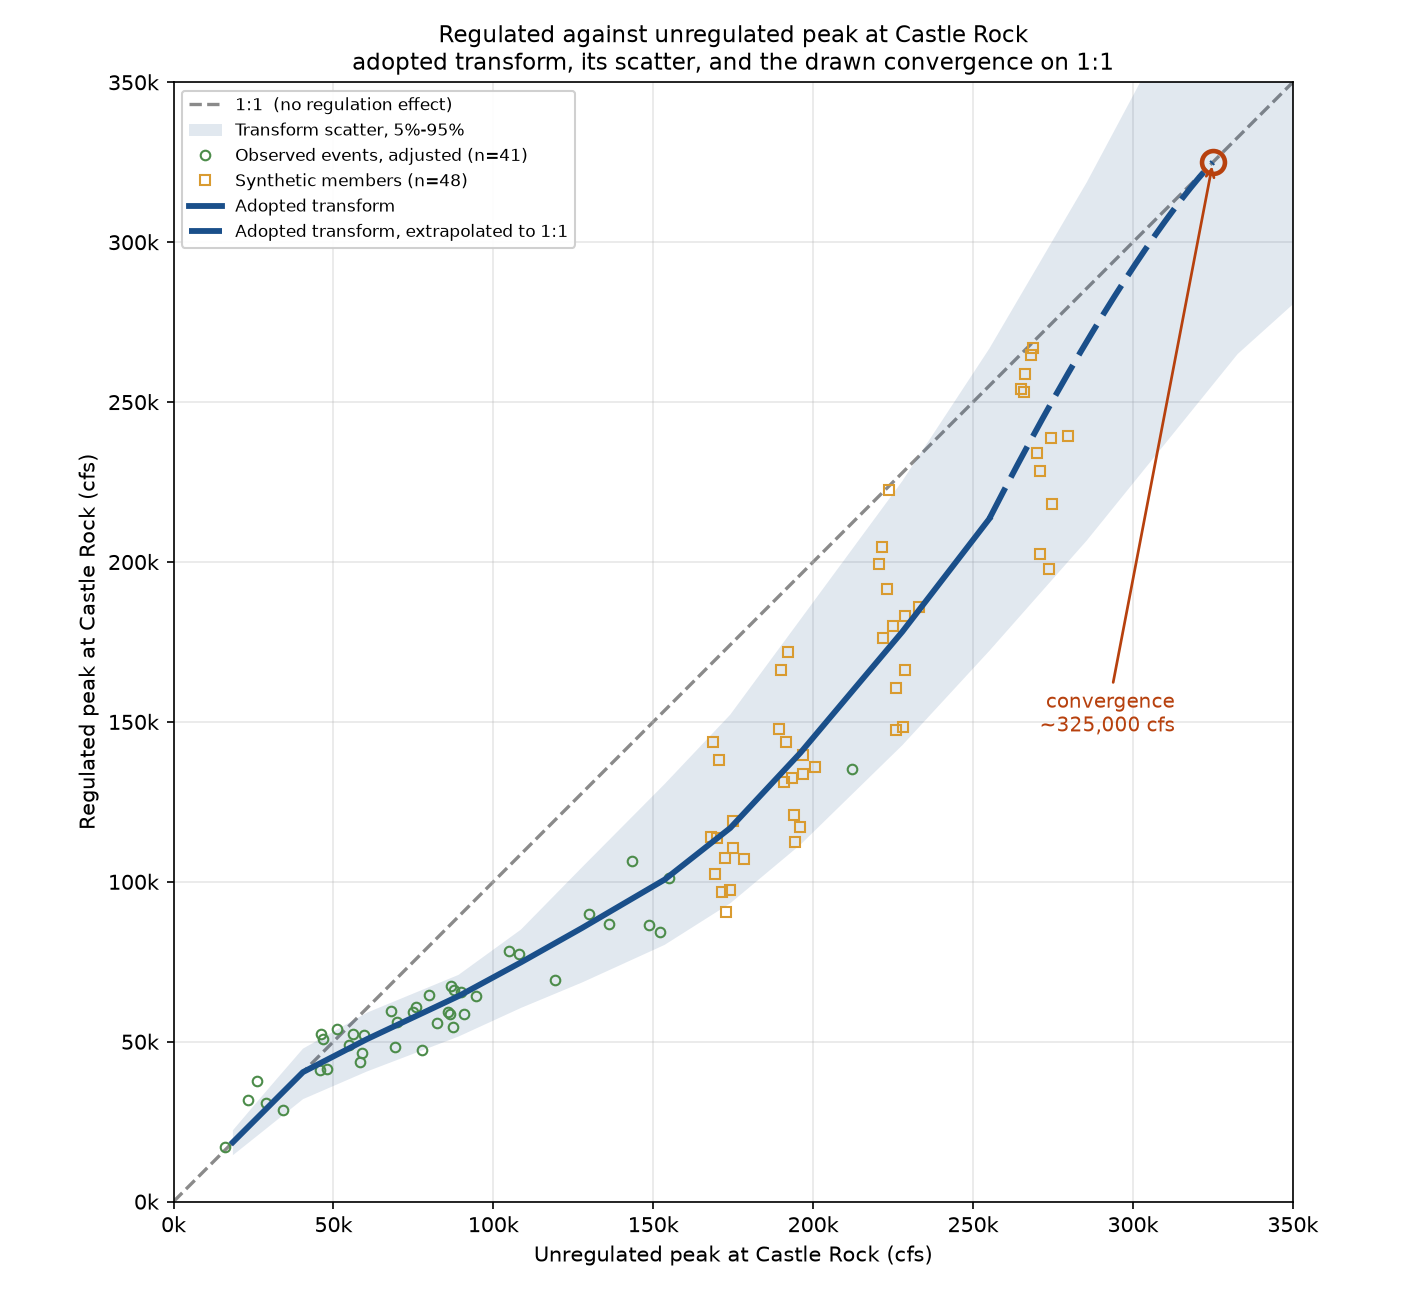
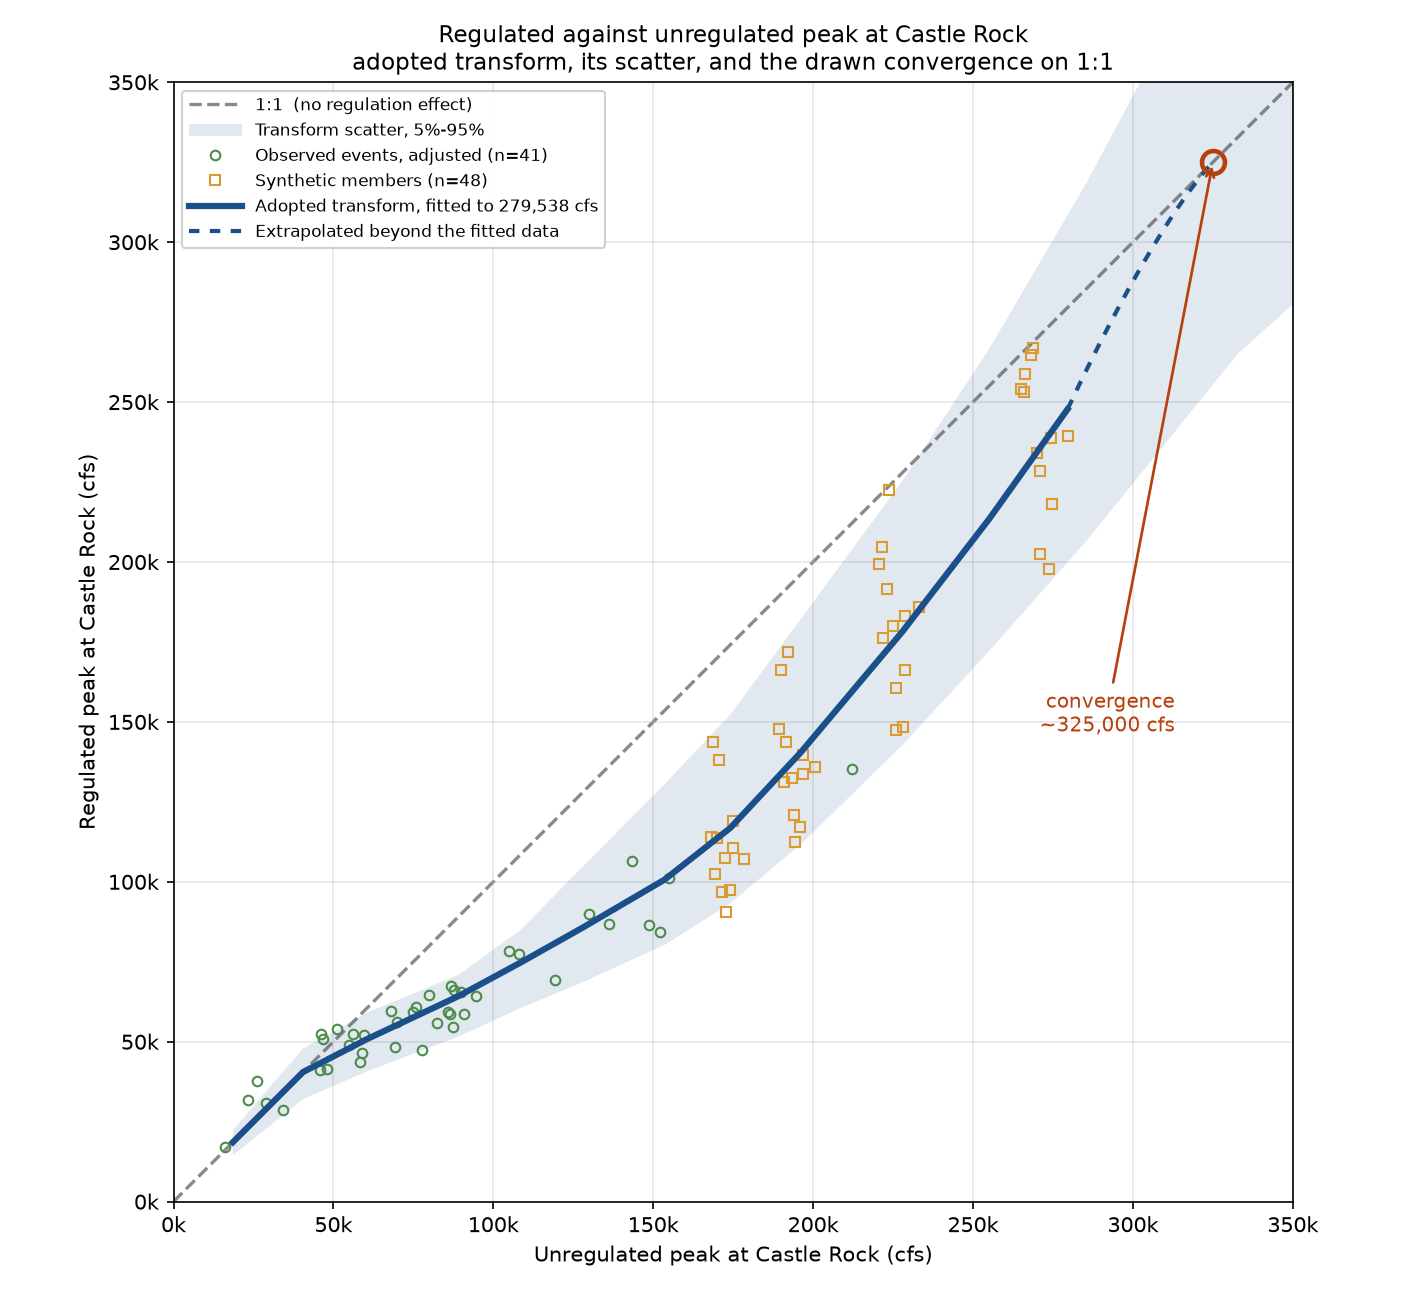
Split the transform figure at the edge of the fitted data, not at the nearest ordinate
The solid to dashed switch could only happen at a curve ordinate, and the AEP
ordinates thin out badly in the tail. They step from 255,074 to 285,568 cfs
between the 1,000 and the 2,000 year, and the real support edge at 279,538 cfs
falls inside that step. The figure therefore drew 24,464 cfs of fully
supported curve as though it were extrapolated, with the largest synthetic
members sitting underneath the dashed part. The flag in
regulated_frequency_inferred.csv was right the whole time. Only the drawing
was wrong, and it understated the support rather than overstating it.

A point is now interpolated at the support edge so the style changes exactly
where the fitted data stops. The edge is derived from the pairs the figure
already reads rather than being restated, so it cannot drift from the fit.

The two blue lines were also indistinguishable in the legend. The fitted line
is heavier, the extrapolation is lighter with shorter dashes, the legend
handles are longer, and the labels now say which is which rather than reading
as two versions of the same thing.

Claude-Session: https://claude.ai/code/session_01ApTwGCY7nuLmCs6XdyD2be

diff --git a/CAS_Reg_Unreg/src/#Transform_Convergence_Figure.py b/CAS_Reg_Unreg/src/#Transform_Convergence_Figure.py
@@ -82,6 +82,14 @@ CONVERGE_AT_CFS = 325000.0    # THE DRAWN ESTIMATE. See the docstring.
 # estimate a genuine alternative to the curve's own extrapolation, which is
 # what the reader needs to see.
 LIMB_FROM_LAST_SUPPORTED = True
+# Split solid from dashed at the true edge of the fitted data rather than at
+# the nearest curve ordinate below it. The AEP ordinates thin out badly in the
+# tail, stepping from 255,074 to 285,568 cfs between the 1,000 and 2,000 year,
+# and the support edge falls inside that step. Switching styles at the ordinate
+# drew 24,000 cfs of supported curve as though it were extrapolated, with the
+# largest synthetic members sitting underneath it. Interpolating a point at the
+# edge puts the change exactly where the data stops.
+SPLIT_AT_SUPPORT_EDGE = True
 TAPER_POWER = 1.6             # shape of the drawn limb only; 1 is a straight
                               # run-in, higher lands on 1:1 more gently.
 
@@ -134,6 +142,20 @@ def main():
     hist = hist[["unreg_ref", "adjusted_peak"]].dropna()
     synth = pd.read_csv(SYNTH_CSV)[["unreg_peak", "reg_peak"]].dropna()
 
+    # The edge of the fitted data, which is the largest unregulated peak among
+    # the pairs the transform was fitted to.
+    support_max = float(max(hist["unreg_ref"].max(), synth["unreg_peak"].max()))
+
+    if SPLIT_AT_SUPPORT_EDGE and len(real):
+        uu = reg["unreg_expected_cfs"].values
+        rr = reg["reg_inferred_cfs"].values
+        reg_at_edge = float(np.interp(support_max, uu, rr))
+        real = pd.concat([
+            real[real["unreg_expected_cfs"] <= support_max],
+            pd.DataFrame({"unreg_expected_cfs": [support_max],
+                          "reg_inferred_cfs": [reg_at_edge]}),
+        ], ignore_index=True)
+
     if LIMB_FROM_LAST_SUPPORTED and len(real):
         u_last = float(real["unreg_expected_cfs"].iloc[-1])
         reg_last = float(real["reg_inferred_cfs"].iloc[-1])
@@ -174,15 +196,16 @@ def main():
                 zorder=3, label="Synthetic members (n=%d)" % len(synth))
 
     ax.plot(real["unreg_expected_cfs"], real["reg_inferred_cfs"],
-            color=C_CURVE, lw=2.8, zorder=4, label="Adopted transform")
+            color=C_CURVE, lw=3.0, zorder=4,
+            label="Adopted transform, fitted to %s cfs" % format(int(support_max), ","))
     # A single extrapolated line, drawn to converge on 1:1 at CONVERGE_AT_CFS.
     # The tabulated extrapolated ordinates are NOT drawn as a second line
     # beside it. They sit up to 5 percent below this one at the 2,000 year, so
     # showing both put two nearly parallel lines in the same place and invited
     # the reader to take the gap between them as meaningful. It is not. Both
     # are extrapolations past the last supported point.
-    ax.plot(u_draw, reg_draw, color=C_CURVE, lw=2.8, ls=(0, (6, 2)), zorder=4,
-            label="Adopted transform, extrapolated to 1:1")
+    ax.plot(u_draw, reg_draw, color=C_CURVE, lw=2.0, ls=(0, (2.5, 2.5)),
+            zorder=4, label="Extrapolated beyond the fitted data")
 
     ax.plot([CONVERGE_AT_CFS], [CONVERGE_AT_CFS], marker="o", ms=11,
             mfc="none", mec=C_DRAWN, mew=2.2, zorder=5)
@@ -213,7 +236,8 @@ def main():
              "adopted transform, its scatter, and the drawn convergence "
              "on 1:1", fontsize=11)
     ax.grid(alpha=0.3)
-    ax.legend(loc="upper left", fontsize=8.0, framealpha=0.92)
+    ax.legend(loc="upper left", fontsize=8.0, framealpha=0.92,
+          handlelength=3.2)
     ax.xaxis.set_major_formatter(lambda v, _: format(int(v / 1000), ",") + "k")
     ax.yaxis.set_major_formatter(lambda v, _: format(int(v / 1000), ",") + "k")
 
